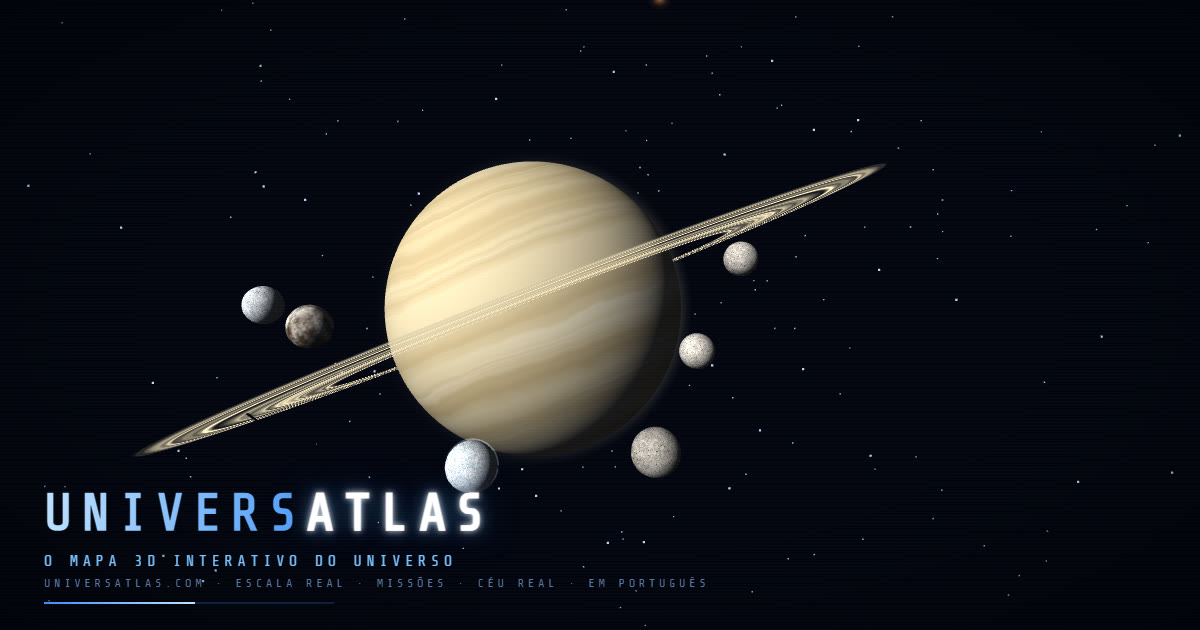
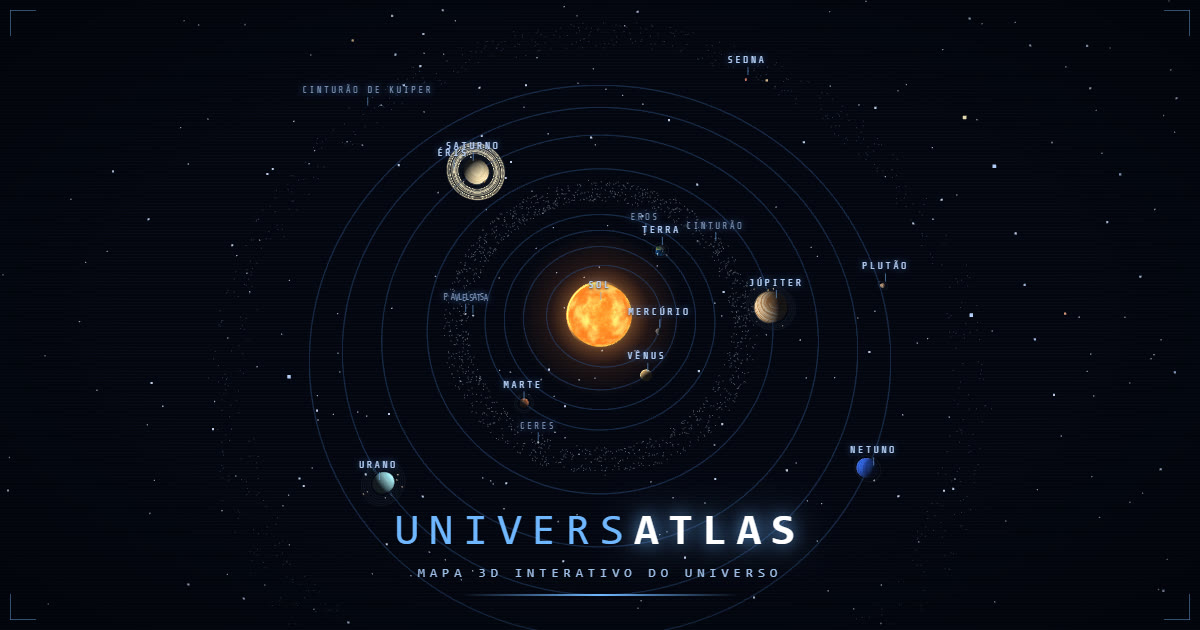
r230: o og novo com o mapa cenico visto de cima, e o headless destravado na GPU real

diff --git a/index.html b/index.html
@@ -13868,7 +13868,7 @@ head.addEventListener('pointerup', e=>{
 });
 
 /* ============================ BOOT & LOOP ============================ */
-const BUILD = 'r229';
+const BUILD = 'r230';
 const RLOG = [];
 const CRECT = {left:0, top:0, width:1, height:1};
 function resize(){

diff --git a/CLAUDE.md b/CLAUDE.md
@@ -34,6 +34,7 @@ Medido: 1% de diferença de tamanho e 0px de posição, tanto planeta quanto lua
 
 ## Relógio de simulação (r80, substituiu o modo movimento do r79)
 r216 (ENTRAR numa estrela no 1:1 VOA, e o zoom out DEVOLVE): o bug que ele reportou testando: travar uma estrela do céu e ENTRAR pulava para a cena cênica do sistema, e o zoom out caía na galáxia cênica. Agora: 1) enterTarget starsys no mapa 1:1 chama voarAteEstrela (o voo da busca do r143) para estrelas do catálogo, e o novo voarAteAncora para sistemas do céu sem estrela popular (TRAPPIST etc., via ACT.ceuAlvos): a câmera VOA no mesmo mapa e entra emendada. 2) A chegada guarda DE11 {sis, alvo, dist}: o zoom out (up) do sistema visitado volta ao MAPA 1:1 estacionado no lugar da estrela, não à galáxia cênica. 3) ACHADO DE CARONA: o puxão do pivô-volta-ao-centro NÃO respeitava o VOOLONGE: o estacionamento do r143 numa estrela sem sistema (Algol) era desfeito num piscar desde a era da trava: agora o puxão só age sem VOOLONGE, e a volta do zoom out marca VOOLONGE (ESC segue trazendo para casa). MEDIDO por sonda (chegada SIMULADA: a cena de sirius PENDURA o headless, bug ambiental conhecido de cenas não-sol): largada sem troca de cena com destino sirius, volta devolvendo ao 1:1 com o pivô estacionado a 8,6 al e DE11 consumido.
+r230 (o og.jpg novo e A DESCOBERTA do headless): og novo pedido por ele: o mapa CÊNICO visto de cima (Sol central, Saturno de anéis abertos, Júpiter à direita, rótulos e cinturões) com o wordmark UNIVERS|ATLAS + MAPA 3D INTERATIVO DO UNIVERSO por cima, gerado DO PRÓPRIO APP em 1200x630 (js-og: câmera yaw 3.35 pitch 1.21 dist 95, HUD escondido MENOS as labels, overlay injetado); o antigo virou og_old.jpg. E A DESCOBERTA GIGANTE no caminho: o pendura histórico da cena CÊNICA no headless era o SWIFTSHADER: rodando o Chrome headless SEM --disable-gpu e SEM swiftshader (GPU real da máquina), o cênico E o resto abrem normalmente (sonda da Flórida rodou no cênico: lonSob -83/-90 com prog andando, o r227 confirmado nos DOIS modos). CONSEQUÊNCIA: auditoria cênica agora é POSSÍVEL: preferir GPU real nas sondas; swiftshader só como fallback.
 r229 (HIPÉRION e FEBE, a decisão das luas de Saturno): ele perguntou das 146+ luas e deixou a decisão comigo ('minhas ideias as vezes nao sao as melhores'). DECISÃO: o cênico fica com as PRINCIPAIS + o número honesto na ficha (274 CONFIRMADAS · 9 PRINCIPAIS); entraram as duas que o consenso considera grandes e que faltavam: HIPÉRION (a esponja de rotação CAÓTICA, metade vazio, choque eletrostático na Cassini) e FEBE (retro:true, a capturada do Kuiper a 12,9 mi km, primeira lua achada por fotografia, cujo anel gigante pinta o lado escuro de Jápeto: as fichas se explicam). Teto do mapa 8→9 (QLOW 5), distâncias reais na ESCALA_REAL_LUAS. FUTURO ANOTADO (sem fazer): classe 'lua irregular' oculta por padrão + órbitas irregulares só no zoom fechado do 1:1; o modal-lista de luas dele fica em observação.
 r226 (o pacote do reteste das missões): 1) NAVE 0.00025 (0,16x ainda era 'um país inteiro' para ele; agora ~0,05x, uma cidade). 2) dAlvo do 1:1 0.015 → 0.006: acompanhamento COLADO. 3) TRIPULADAS mais lentas (TRAJ.base 20000 → 42000, só foguetes: sondas intactas, pedido dele). 4) O SPLASHDOWN terminava DENTRO da Terra (rFimD = rEst*0.6 ficava abaixo do raio desenhado): agora é a superfície do pai (sys.size * 1.04 no cênico; 0.00068 no 1:1). 5) O nariz da nave CRAVA a orientação no primeiro quadro (nascia torto girando até alinhar) e o slerp subiu a 0.6. 6) As labels das luas descansam mais cedo no zoom out (escrMr x260 → x110: o aglomerado de Júpiter a 1 UA).
 r227 (O LANÇAMENTO SAI DA FLÓRIDA): ele viu a Apollo subindo do meio do oceano. Em missão TRIPULADA a Terra gira ANCORADA NO LANÇAMENTO: apontarLon (mesma medição do apontarSubsolar, aponta uma longitude qualquer para um azimute) põe o Cabo Canaveral (lon -80,6) sob o ponto de partida da rota no prog 0, e gira 1 volta por dia de missão dali (lonAlvo = -80,6 - 360*dias). A Terra da missão é achada no ACT.liveGiro pela distância ao pick (a Terra NÃO está em spinners: corpo com mapa vive no liveGiro, lição do r195). Respeita o toggle TERRA PARADA. A volta solta a âncora e o subsolar reassume.
@@ -121,6 +122,7 @@ r159 (o Sol vira uma estrela qualquer, a bola branca e o contínuo na busca e na
 - r154: primeiro acesso: o tutorial termina apresentando a ESCALA 1:1 com o botão piscando.
 - r154: o mapa nasce limpo (linhas só de planeta e lua) e os botões de debug sumiram do topo (voltam com Shift+D).
 - r155: a Nuvem de Oort tem UM rótulo só agora, e um clique trava o corpo em vez de entrar direto.
+- r230 · o link do site tem um cartão novo: o mapa cênico visto de cima com o wordmark (cole o link no WhatsApp; o antigo está guardado em og_old.jpg).
 - r229 · Saturno ganhou HIPÉRION (a esponja caótica) e FEBE (a retrógrada capturada que pinta Jápeto): 9 luas com ficha, e o card diz 274 confirmadas.
 - r226 · missões: nave do tamanho de cidade, câmera colada, tripuladas na metade da velocidade, splashdown NA superfície, nariz alinhado de saída e as labels das luas sem aglomerar a 1 UA.
 - r227 · a Apollo agora DECOLA DA FLÓRIDA: a Terra gira ancorada no lançamento (Cabo Canaveral sob a rota no início).
@@ -268,7 +270,7 @@ O sistema tem uma DATA que corre: `SIMT {data, vel:'dia'|'semana'|'mes', pausado
 O r75 inseriu o bloco da trava de centro ENTRE `if(TRAJ) trajStep(now);` e `else if(FADEIN) fadeInStep(now);` no loop: o `else` passou a se ligar ao if da trava, que em cena de sistema roda sempre, e o FADEIN morria de fome: toda entrada em sistema ficava com a cena apagada (só labels e os pontinhos que não passam pelo fade). REGRA: nunca inserir código entre um if e seu else por âncora de texto; conferir sempre o vizinho de baixo da âncora. Corrigido no r78: fadeInStep roda independente, e um VIGIA no loop cura qualquer cena apagada em <1,4s (RLOG registra heal-f/heal-d, visível no DIAG com Shift+D).
 
 ## O HEADLESS DEPOIS DO CHROME DE 3 SET 2026 (lição cara)
-O Chrome atualizou no meio do dia e o comportamento do headless MUDOU: --virtual-time-budget LONGO (26000+) pendura a página do app (dump de 0 bytes); a banda 14000-17000 funciona MAS é instável (2/3 de acerto): sondas e ferramentas usam ESCADINHA de orçamentos com retry (14000, 16000, 15000, 17000). TEMPO REAL não serve para sonda: o --timeout despeja o DOM no evento de LOAD (~2 s), antes da sonda rodar. E NÃO pôr iframe/navegação pendente na página: com virtual-time o orçamento nunca fecha (0 bytes sempre). Sintoma clássico de tudo isso: dump de 0 bytes com o app perfeito.
+O Chrome atualizou no meio do dia e o comportamento do headless MUDOU: --virtual-time-budget LONGO (26000+) pendura a página do app (dump de 0 bytes); a banda 14000-17000 funciona MAS é instável (2/3 de acerto): sondas e ferramentas usam ESCADINHA de orçamentos com retry (14000, 16000, 15000, 17000). TEMPO REAL não serve para sonda: o --timeout despeja o DOM no evento de LOAD (~2 s), antes da sonda rodar. E NÃO pôr iframe/navegação pendente na página: com virtual-time o orçamento nunca fecha (0 bytes sempre). Sintoma clássico de tudo isso: dump de 0 bytes com o app perfeito. E A CHAVE DE TUDO: com GPU REAL (sem --disable-gpu e sem swiftshader) o headless abre INCLUSIVE a cena cênica e a de foco, que swiftshader pendurava desde sempre: preferir GPU real nas sondas.
 
 ## Teste de integridade (r42)
 `node tools/verifica.js` antes de cada entrega. Ele executa os dados de verdade e falha se: um corpo citado em SYS não passou por `reg()` (esse erro eu já cometi duas vezes), um `beltId` aponta para o nada, uma nebulosa está em SYS.bodies E como beltId (o objeto duplicado do r28), um sistema ficou sem marcador em STARSYS, um `_sys`/`_parent` aponta para algo inexistente, uma região não tem `field`, ou um texto novo tem travessão, emoji ou instrução de app dentro de `facts`/`fict`. Avisos (não quebram): ficha sem curiosidade, estrela sem RAIO.
